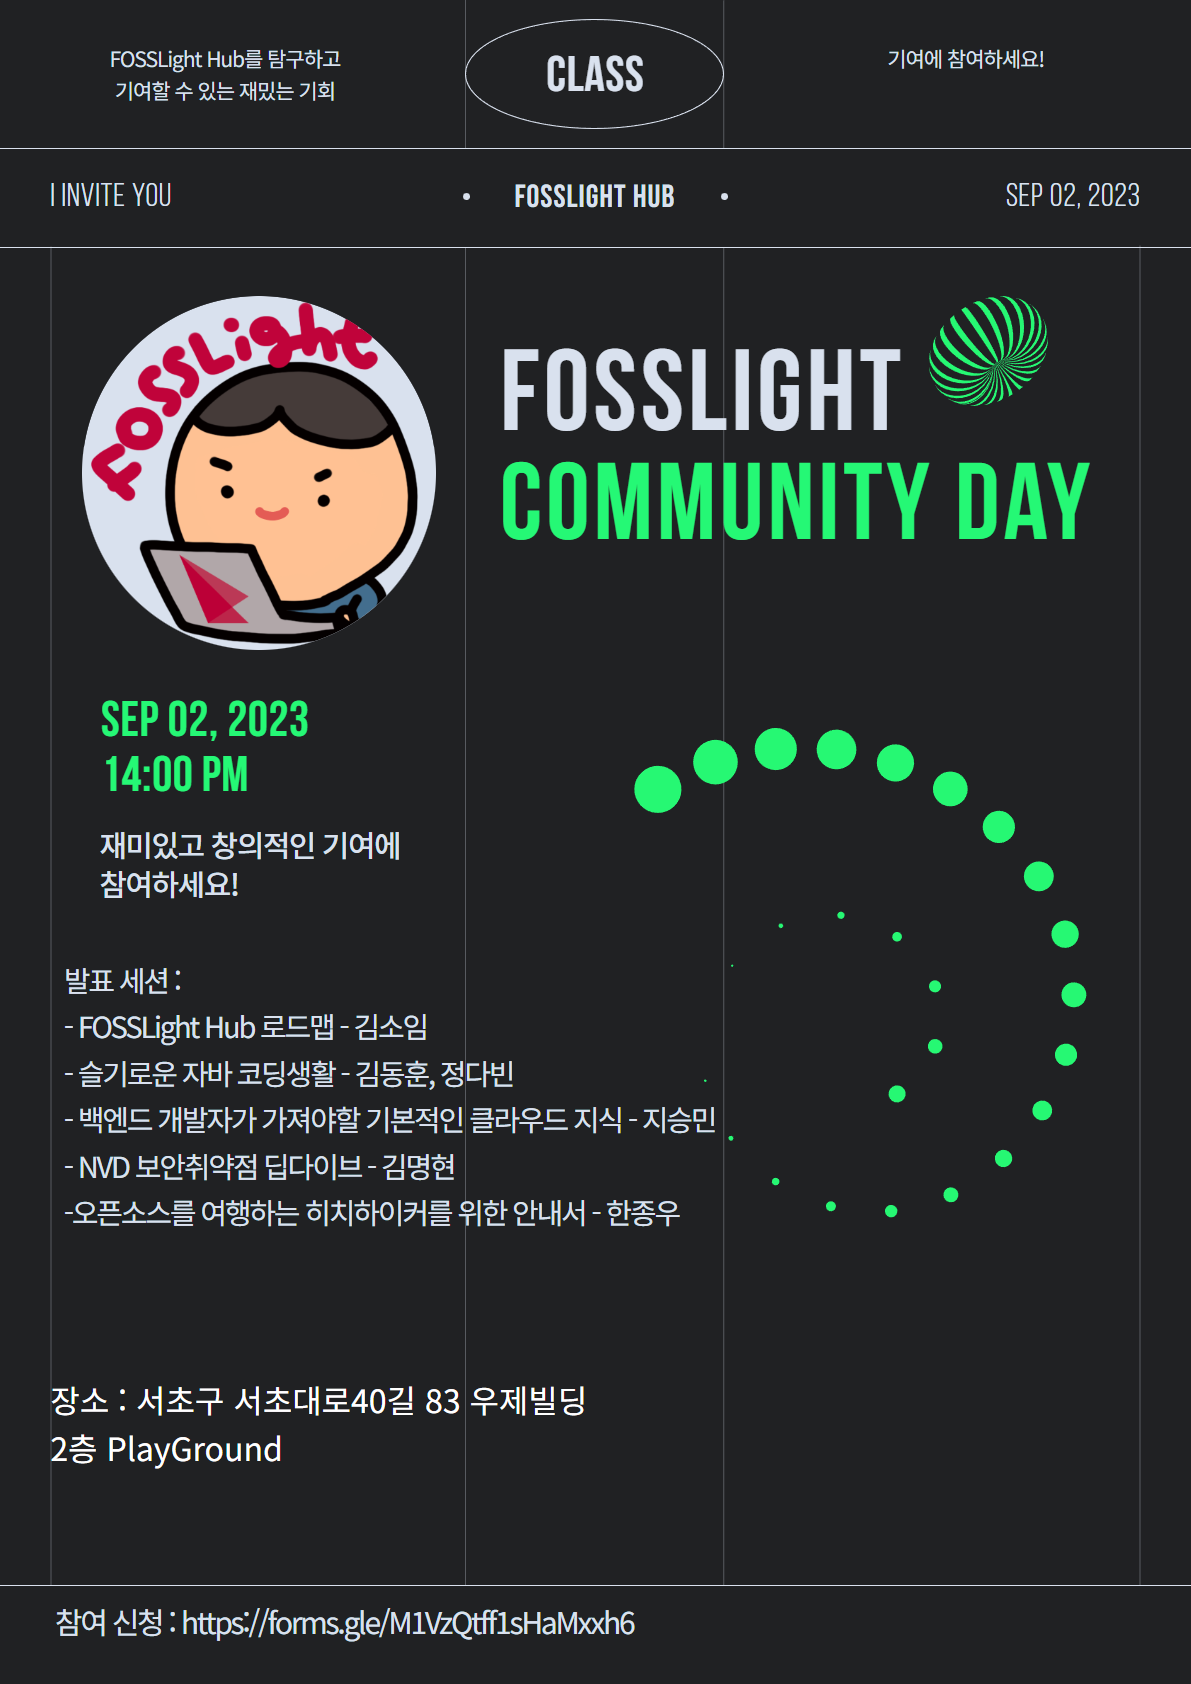
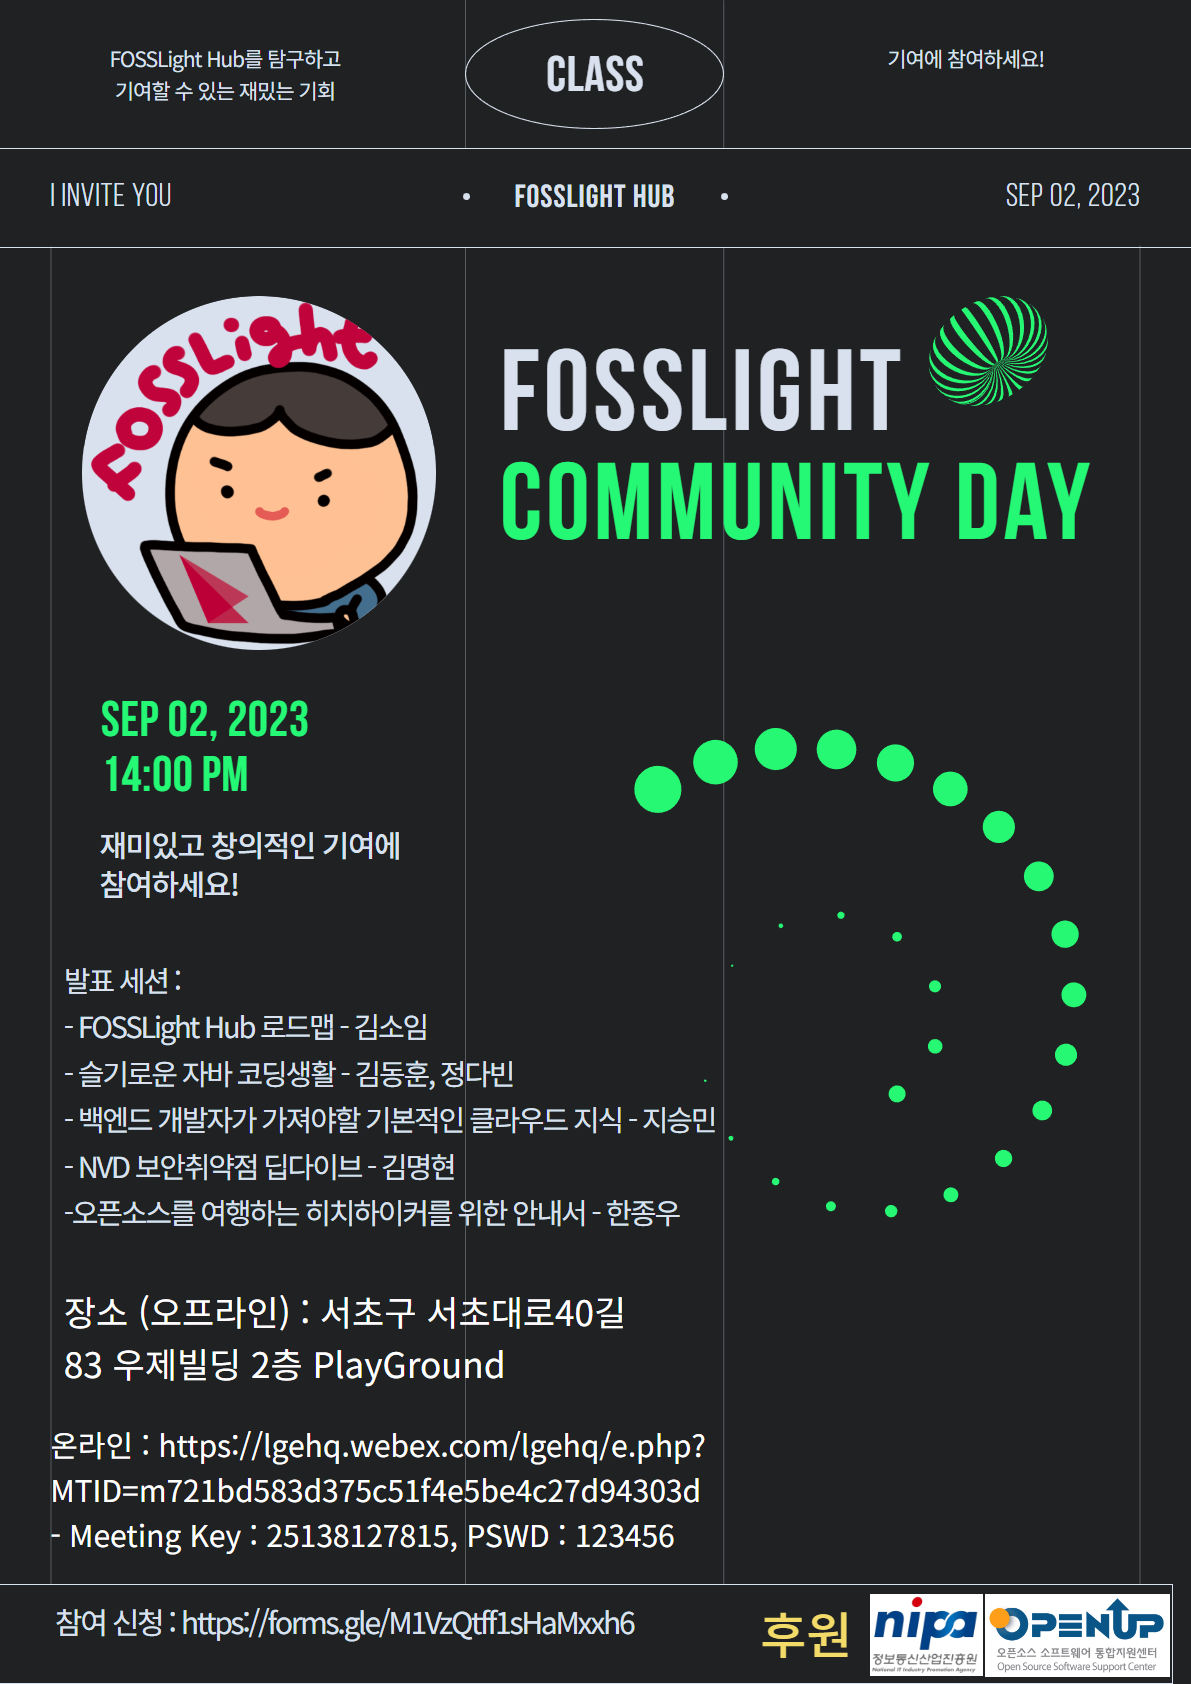
update news

Changed region(s): [[0.0311, 0.772, 0.5903, 0.9264], [0.6213, 0.9264, 0.9941, 1.0]]

diff --git a/news/_posts/2023-08-25-community_day.md b/news/_posts/2023-08-25-community_day.md
@@ -10,7 +10,7 @@ hide_last_modified: true
 아래 FOSSLight Community Day 참여 신청 링크를 통해 참여 신청 부탁드리며, 오프라인 참여가 어려우신 경우 하기 온라인 링크로도 참여하실 수 있으니 많은 분들의 참여 부탁드립니다!!
 
  - FOSSLight Community Day 참여 신청 : [https://forms.gle/M1VzQtff1sHaMxxh6](https://forms.gle/M1VzQtff1sHaMxxh6)
- - Online 참여 링크 : [https://lgehq.webex.com/lgehq/e.php?MTID=m721bd583d375c51f4e5be4c27d94303d] (PSWD:123456)
+ - Online 참여 링크 : [https://lgehq.webex.com/lgehq/e.php?MTID=m721bd583d375c51f4e5be4c27d94303d](https://lgehq.webex.com/lgehq/e.php?MTID=m721bd583d375c51f4e5be4c27d94303d) (PSWD:123456)
 
 
  ![](../../assets/img/news/FL_DAY.png)
